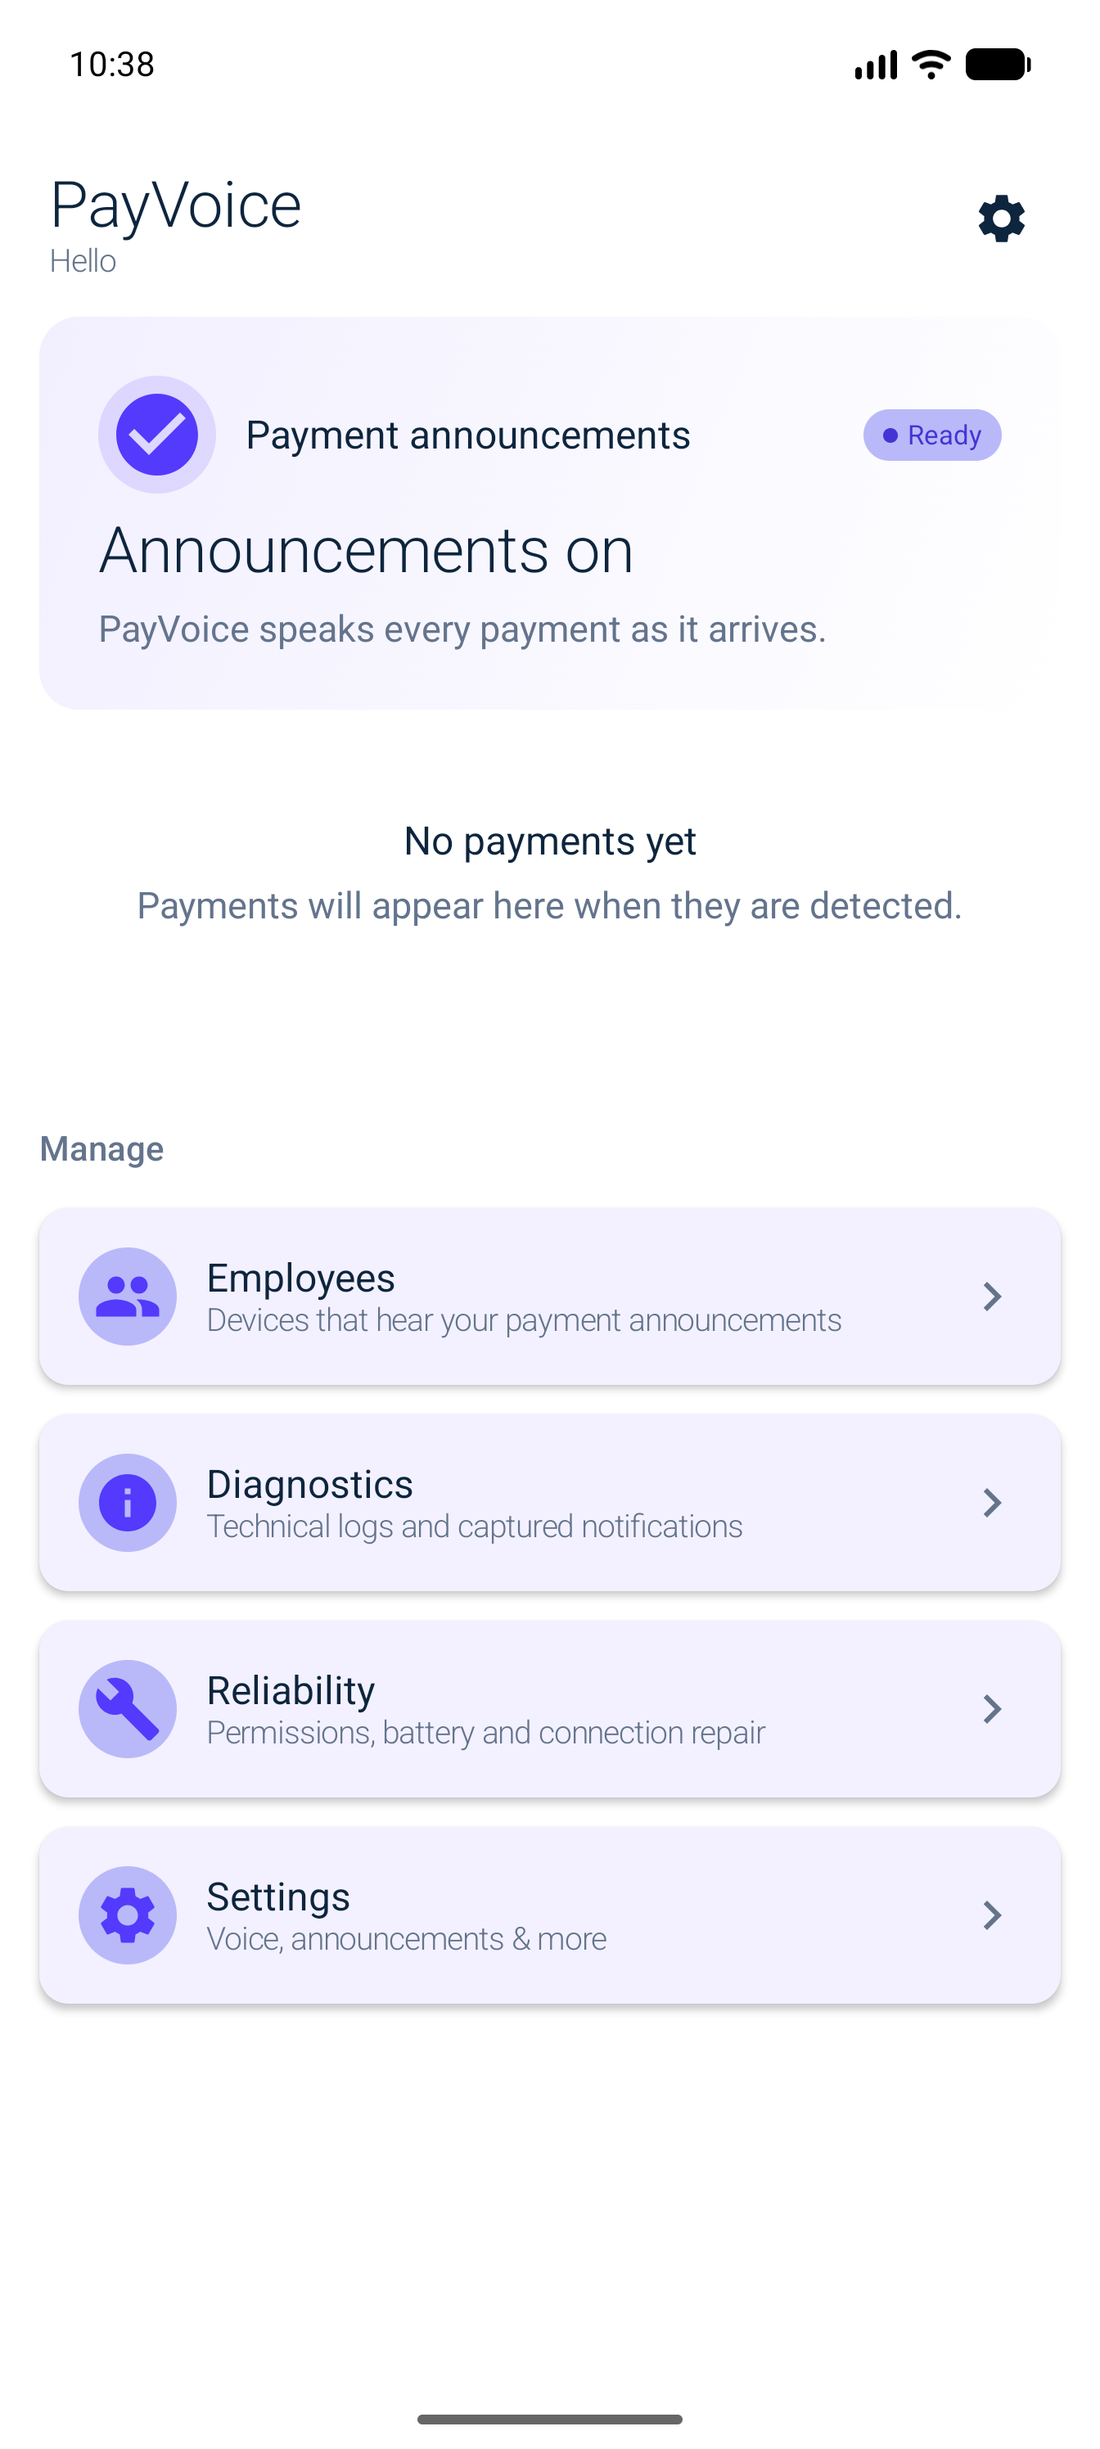
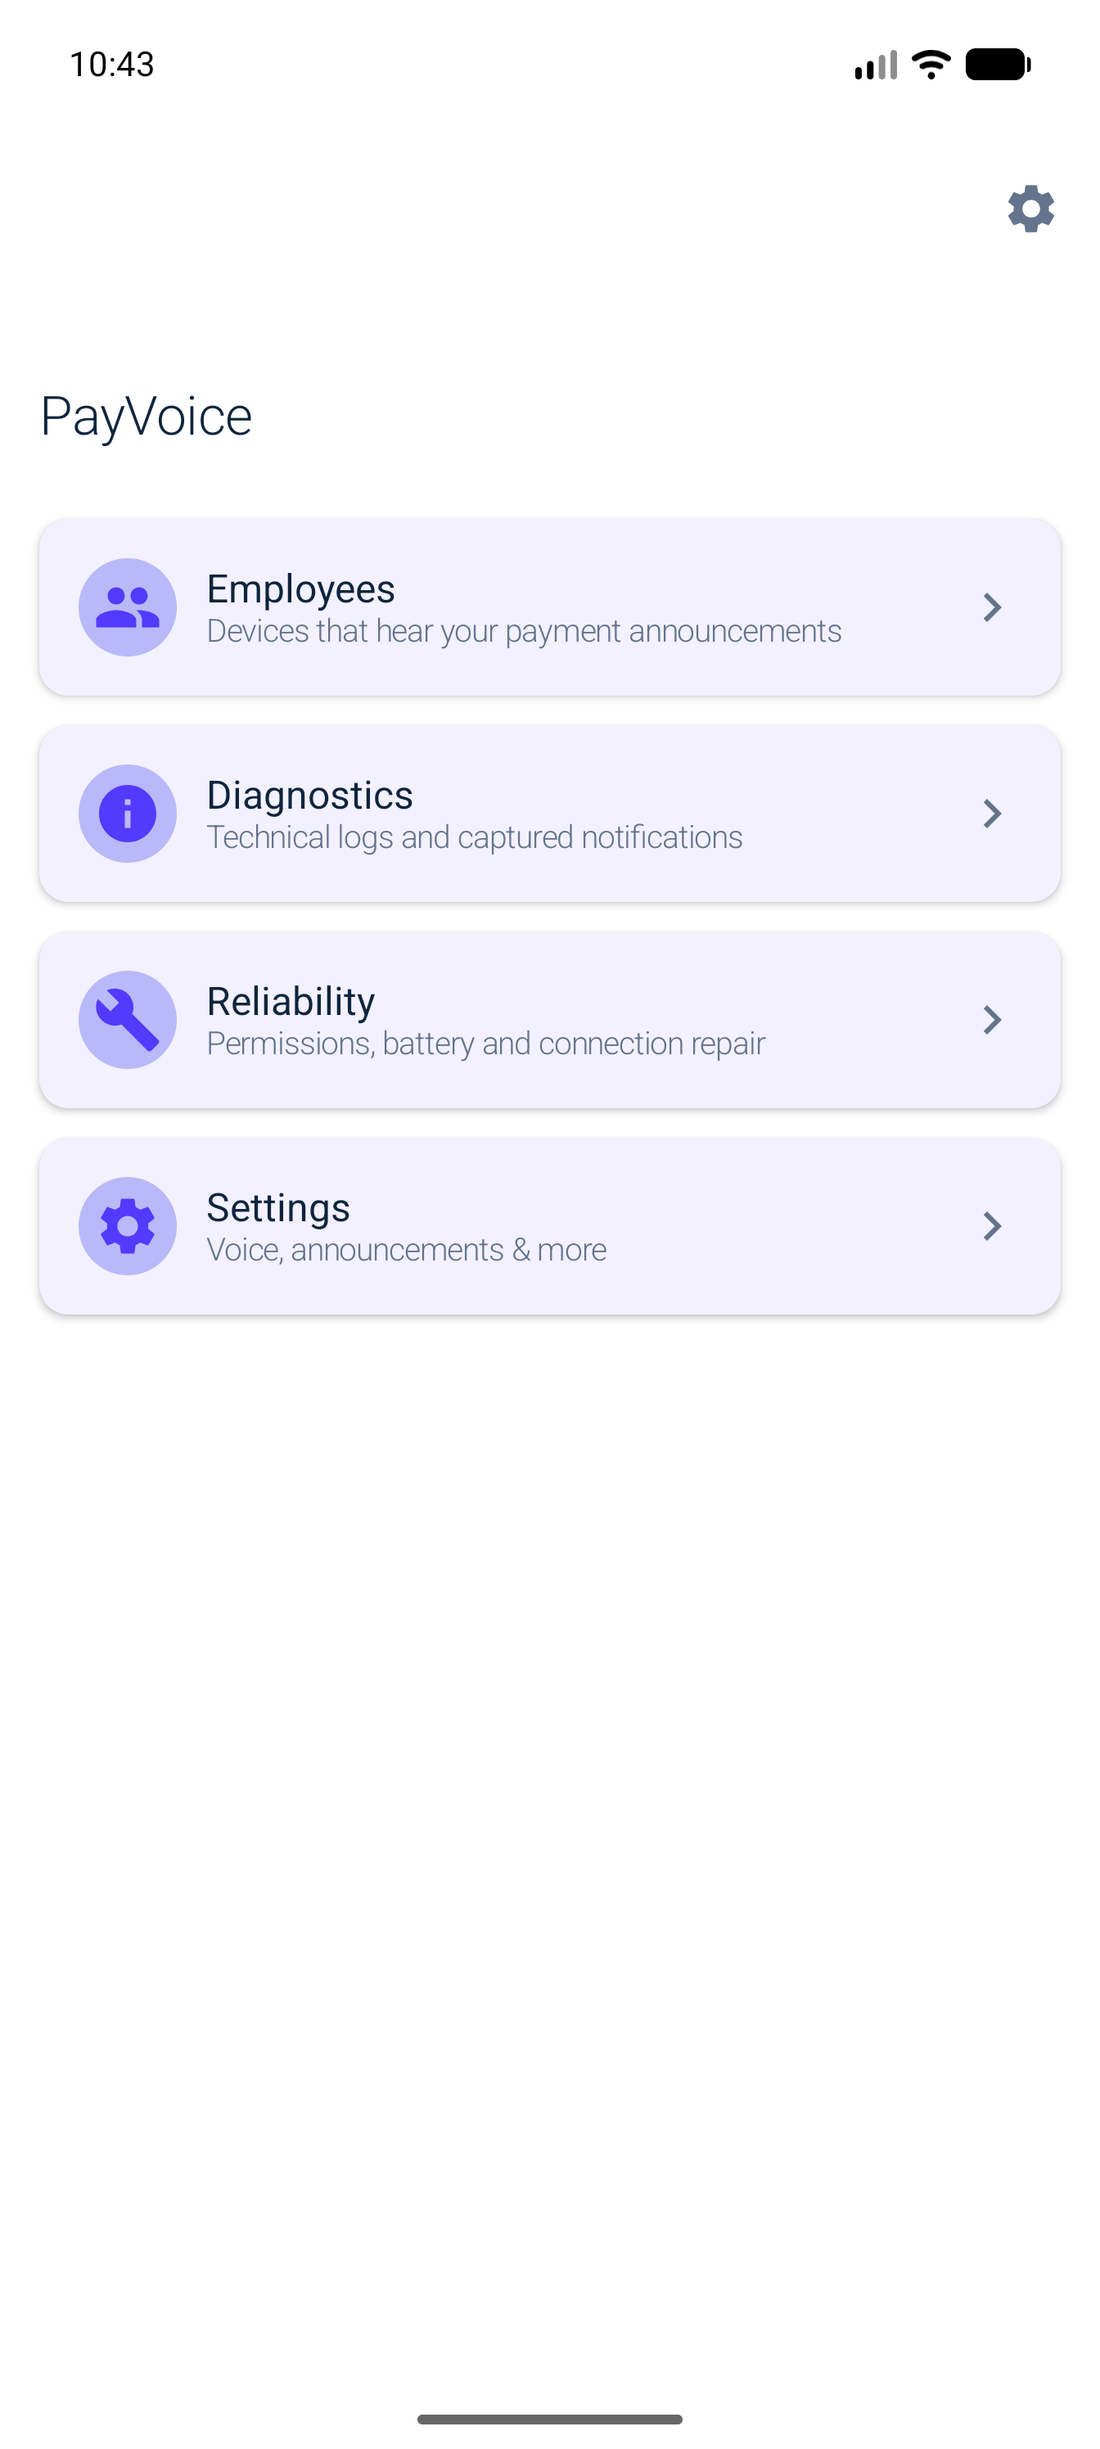
refactor(ui/home): rebuild from DESIGN.md primitives
Phase 3b — Home is a direct translation of the spec:

- LargeTopAppBar "PayVoice" (exit-until-collapsed) in the PvScaffold topBar
  slot; Settings icon action; canvas container.
- HeroCard: rounded.xl surface, role headline (Owner/Employee/Welcome) +
  StatusPill (Ready/Action needed/Waiting/Idle), one human status line
  derived from the existing status flows. No gradient, no ink-on-navy —
  the consumer canvas track.
- Role selector REMOVED from this screen (role is set at onboarding,
  read-only here; the UNSET branch renders no cards).
- Recent payments retained as a product surface: PvPaymentRow + tnum
  MoneyText + PvEmptyHint; Manage section = spec's four PvActionCards
  (role-aware first card).
- Derived helpers (homeTone/homeStatusText) map the existing flows to
  StatusTone/copy — zero ViewModel changes.

Verified on emulator-5554 (owner): hero "Owner / Ready", recent-payments
empty hint, Manage cards all in the uiautomator dump; home-owner.png
re-captured. compileDebugKotlin + assembleDebug green.

diff --git a/app/src/main/java/com/vivekray898/payvoice/ui/parenthome/ParentHomeScreen.kt b/app/src/main/java/com/vivekray898/payvoice/ui/parenthome/ParentHomeScreen.kt
@@ -4,51 +4,55 @@ import android.os.Build
 import androidx.compose.foundation.layout.Arrangement
 import androidx.compose.foundation.layout.Column
 import androidx.compose.foundation.layout.PaddingValues
-import androidx.compose.foundation.layout.Row
+import androidx.compose.foundation.layout.Spacer
 import androidx.compose.foundation.layout.fillMaxSize
+import androidx.compose.foundation.layout.fillMaxWidth
+import androidx.compose.foundation.layout.height
+import androidx.compose.foundation.layout.padding
 import androidx.compose.foundation.lazy.LazyColumn
 import androidx.compose.material.icons.Icons
 import androidx.compose.material.icons.filled.Build
-import androidx.compose.material.icons.filled.CheckCircle
 import androidx.compose.material.icons.filled.Group
 import androidx.compose.material.icons.filled.Info
 import androidx.compose.material.icons.filled.Link
 import androidx.compose.material.icons.filled.Settings
 import androidx.compose.material.icons.filled.Warning
-import androidx.compose.material3.Button
+import androidx.compose.material3.ExperimentalMaterial3Api
 import androidx.compose.material3.Icon
 import androidx.compose.material3.IconButton
+import androidx.compose.material3.LargeTopAppBar
 import androidx.compose.material3.MaterialTheme
-import androidx.compose.material3.OutlinedButton
+import androidx.compose.material3.Surface
 import androidx.compose.material3.Text
+import androidx.compose.material3.TopAppBarDefaults
 import androidx.compose.runtime.Composable
 import androidx.compose.runtime.getValue
+import androidx.compose.ui.Alignment
 import androidx.compose.ui.Modifier
+import androidx.compose.ui.input.nestedscroll.nestedScroll
 import androidx.lifecycle.compose.collectAsStateWithLifecycle
 import com.vivekray898.payvoice.core.parser.AmountExtractor
 import com.vivekray898.payvoice.core.remote.DeviceRole
+import com.vivekray898.payvoice.service.status.DeviceStatusMonitor
 import com.vivekray898.payvoice.ui.MainViewModel
+import com.vivekray898.payvoice.ui.components.MoneyText
 import com.vivekray898.payvoice.ui.components.PvActionCard
 import com.vivekray898.payvoice.ui.components.PvDivider
-import com.vivekray898.payvoice.ui.components.PvEmptyState
+import com.vivekray898.payvoice.ui.components.PvEmptyHint
 import com.vivekray898.payvoice.ui.components.PvPaymentRow
 import com.vivekray898.payvoice.ui.components.PvScaffold
-import com.vivekray898.payvoice.ui.components.PvSection
-import com.vivekray898.payvoice.ui.components.PvStatusHero
-import com.vivekray898.payvoice.ui.components.statusCaution
-import com.vivekray898.payvoice.ui.components.statusNegative
-import com.vivekray898.payvoice.ui.components.statusPositive
+import com.vivekray898.payvoice.ui.components.StatusPill
+import com.vivekray898.payvoice.ui.components.StatusTone
+import com.vivekray898.payvoice.ui.components.SectionHeader
 import com.vivekray898.payvoice.ui.components.timeAgo
 import com.vivekray898.payvoice.ui.theme.Spacing
-import java.util.Calendar
 
 /**
- * Home (premium pass, UI overhaul Phase 3): large title + greeting in the
- * shared [PvScaffold] chrome, gradient status hero with icon circle and
- * status chip, and icon-circle action cards. List is inset by the scaffold
- * (status/nav bars handled centrally); only aesthetic padding here.
- * ViewModel wiring untouched.
+ * Home (DESIGN.md rebuild, Phase 3b): LargeTopAppBar "PayVoice", the hero
+ * card (role + status pill + one human line), then the Manage action cards.
+ * No role selector — role is set during onboarding and read-only here.
  */
+@OptIn(ExperimentalMaterial3Api::class)
 @Composable
 fun ParentHomeScreen(
     viewModel: MainViewModel,
@@ -61,122 +65,82 @@ fun ParentHomeScreen(
     val status by viewModel.status.collectAsStateWithLifecycle()
     val history by viewModel.history.collectAsStateWithLifecycle()
     val settings by viewModel.settings.collectAsStateWithLifecycle()
+    val ownDevice by viewModel.ownDevice.collectAsStateWithLifecycle()
 
-    val listenerOk = status?.listenerEnabled == true
-    val notifOk = status?.notificationsEnabled == true
-    val ready = listenerOk && notifOk
-    val needsAttention = !ready
-    val isEmployee = settings.role == DeviceRole.EMPLOYEE
+    val scrollBehavior = TopAppBarDefaults.exitUntilCollapsedScrollBehavior()
+    val role = settings.role
+    val tone = homeTone(status, role, ownDevice?.isActive == true)
+    val statusText = homeStatusText(role, status, ownDevice?.isActive == true)
 
     PvScaffold(
-        title = "PayVoice",
-        subtitle = greeting(),
-        largeTitle = true,
-        actions = {
-            IconButton(onClick = onOpenSettings) {
-                Icon(Icons.Filled.Settings, contentDescription = "Settings")
-            }
+        topBar = {
+            LargeTopAppBar(
+                title = { Text("PayVoice", style = MaterialTheme.typography.headlineMedium) },
+                actions = {
+                    IconButton(onClick = onOpenSettings) {
+                        Icon(Icons.Filled.Settings, contentDescription = "Settings")
+                    }
+                },
+                colors = TopAppBarDefaults.largeTopAppBarColors(
+                    containerColor = MaterialTheme.colorScheme.background,
+                ),
+                scrollBehavior = scrollBehavior,
+            )
         },
-    ) {
+    ) { inner ->
         LazyColumn(
-            Modifier.fillMaxSize(),
-            contentPadding = PaddingValues(top = Spacing.xs, bottom = Spacing.xxl),
-            verticalArrangement = Arrangement.spacedBy(Spacing.xs),
+            modifier = Modifier
+                .fillMaxSize()
+                .nestedScroll(scrollBehavior.nestedScrollConnection),
+            contentPadding = PaddingValues(bottom = Spacing.xxl + inner.calculateBottomPadding()),
         ) {
             item(key = "hero") {
-                if (isEmployee) {
-                    EmployeeHero(viewModel, onOpen = onOpenEmployeeRemote)
-                } else {
-                    if (ready) {
-                        PvStatusHero(
-                            icon = Icons.Filled.CheckCircle,
-                            tint = statusPositive(),
-                            title = "Payment announcements",
-                            headline = "Announcements on",
-                            body = "PayVoice speaks every payment as it arrives.",
-                            chip = "Ready",
-                            chipOk = true,
+                HeroCard(
+                    modifier = Modifier.padding(horizontal = Spacing.lg),
+                    role = role,
+                    statusText = statusText,
+                    tone = tone,
+                )
+            }
+            item(key = "history") {
+                Column(Modifier.padding(horizontal = Spacing.lg)) {
+                    SectionHeader(text = "Recent payments")
+                    if (history.isEmpty()) {
+                        PvEmptyHint(
+                            text = "Payments will appear here when they are detected.",
                         )
                     } else {
-                        PvStatusHero(
-                            icon = Icons.Filled.Warning,
-                            tint = statusNegative(),
-                            title = "Payment announcements",
-                            headline = "Setup incomplete",
-                            body = "Allow notification access so PayVoice can hear your payments.",
-                            chip = "Action needed",
-                            chipOk = false,
-                            actionLabel = "Fix this",
-                            onAction = onOpenReliability,
-                        )
-                    }
-                }
-            }
-
-            item(key = "payments") {
-                PvSection(title = if (history.isEmpty()) null else "Recent payments") {
-                    when {
-                        history.isEmpty() -> PvEmptyState(
-                            title = "No payments yet",
-                            body = "Payments will appear here when they are detected.",
-                            actionLabel = if (needsAttention) "Check setup" else null,
-                            onAction = if (needsAttention) onOpenReliability else null,
-                        )
-                        else -> {
-                            history.take(6).forEachIndexed { index, entry ->
-                                if (index > 0) PvDivider()
-                                PvPaymentRow(
-                                    amountText = AmountExtractor.formatMinor(
-                                        entry.amountMinor,
-                                        entry.currency,
-                                    ),
-                                    source = entry.sourceName,
-                                    sender = entry.senderName,
-                                    timeText = timeAgo(entry.announcedAtMs),
-                                )
-                            }
+                        history.take(6).forEachIndexed { index, entry ->
+                            if (index > 0) PvDivider()
+                            PvPaymentRow(
+                                amountText = AmountExtractor.formatMinor(
+                                    entry.amountMinor,
+                                    entry.currency,
+                                ),
+                                source = entry.sourceName,
+                                sender = entry.senderName,
+                                timeText = timeAgo(entry.announcedAtMs),
+                            )
                         }
                     }
                 }
             }
-
-            item(key = "role-entry") {
-                when (settings.role) {
-                    DeviceRole.UNSET -> PvSection(title = "Announce on more devices") {
-                        Text(
-                            "Let another phone announce the same payments — for a shop " +
-                                "counter or another staff member.",
-                            style = MaterialTheme.typography.bodyMedium,
-                            color = MaterialTheme.colorScheme.onSurfaceVariant,
-                        )
-                        Row(horizontalArrangement = Arrangement.spacedBy(Spacing.sm)) {
-                            Button(onClick = { viewModel.setRole(DeviceRole.OWNER, Build.MODEL ?: "Owner") }) {
-                                Text("I'm the owner")
-                            }
-                            OutlinedButton(onClick = { viewModel.setRole(DeviceRole.EMPLOYEE, Build.MODEL ?: "Employee") }) {
-                                Text("I'm an employee")
-                            }
-                        }
-                    }
-                    else -> Unit // hero covers the role entry point via the cards below
-                }
-            }
-
-            item(key = "cards") {
-                PvSection(title = "Manage") {
+            item(key = "manage") {
+                Column(Modifier.padding(horizontal = Spacing.lg)) {
+                    SectionHeader(text = if (role == DeviceRole.EMPLOYEE) "This device" else "Manage")
                     Column(verticalArrangement = Arrangement.spacedBy(Spacing.md)) {
-                        when (settings.role) {
+                        when (role) {
+                            DeviceRole.EMPLOYEE -> PvActionCard(
+                                icon = Icons.Filled.Link,
+                                title = "Pair status",
+                                subtitle = statusText,
+                                onClick = onOpenEmployeeRemote,
+                            )
                             DeviceRole.OWNER -> PvActionCard(
                                 icon = Icons.Filled.Group,
                                 title = "Employees",
                                 subtitle = "Devices that hear your payment announcements",
                                 onClick = onOpenOwnerRemote,
-                            )
-                            DeviceRole.EMPLOYEE -> PvActionCard(
-                                icon = Icons.Filled.Link,
-                                title = "Pair this device",
-                                subtitle = "Join a business with a pairing code",
-                                onClick = onOpenEmployeeRemote,
                             )
                             DeviceRole.UNSET -> Unit
                         }
@@ -199,6 +163,7 @@ fun ParentHomeScreen(
                             onClick = onOpenSettings,
                         )
                     }
+                    Spacer(Modifier.height(Spacing.xl))
                 }
             }
         }
@@ -206,42 +171,79 @@ fun ParentHomeScreen(
 }
 
 @Composable
-private fun EmployeeHero(viewModel: MainViewModel, onOpen: () -> Unit) {
-    val own by viewModel.ownDevice.collectAsStateWithLifecycle()
-    val connected = own?.isActive == true
-    if (connected) {
-        PvStatusHero(
-            icon = Icons.Filled.CheckCircle,
-            tint = statusPositive(),
-            title = "Remote announcements",
-            headline = "Connected to your owner",
-            body = "This phone announces your owner's payments.",
-            chip = "Live",
-            chipOk = true,
-            actionLabel = "View connection",
-            onAction = onOpen,
-        )
-    } else {
-        PvStatusHero(
-            icon = Icons.Filled.Link,
-            tint = statusCaution(),
-            title = "Remote announcements",
-            headline = "Waiting for a pairing code",
-            body = "Join with a code from your owner to start announcing.",
-            chip = "Not connected",
-            chipOk = null,
-            actionLabel = "Join",
-            onAction = onOpen,
-        )
+private fun HeroCard(
+    role: DeviceRole,
+    statusText: String,
+    tone: StatusTone,
+    modifier: Modifier = Modifier,
+) {
+    Surface(
+        modifier = modifier.fillMaxWidth(),
+        shape = MaterialTheme.shapes.extraLarge, // rounded.xl
+        color = MaterialTheme.colorScheme.surface,
+        tonalElevation = Spacing.xxs,
+    ) {
+        Column(
+            Modifier
+                .fillMaxWidth()
+                .padding(Spacing.xl),
+        ) {
+            androidx.compose.foundation.layout.Row(verticalAlignment = Alignment.CenterVertically) {
+                Text(
+                    text = when (role) {
+                        DeviceRole.OWNER -> "Owner"
+                        DeviceRole.EMPLOYEE -> "Employee"
+                        DeviceRole.UNSET -> "Welcome"
+                    },
+                    style = MaterialTheme.typography.headlineMedium,
+                    color = MaterialTheme.colorScheme.onSurface,
+                    modifier = Modifier.weight(1f),
+                )
+                StatusPill(
+                    text = when (tone) {
+                        StatusTone.Success -> "Ready"
+                        StatusTone.Error -> "Action needed"
+                        StatusTone.Warning -> "Waiting"
+                        StatusTone.Neutral -> "Idle"
+                    },
+                    tone = tone,
+                )
+            }
+            Spacer(Modifier.height(Spacing.sm))
+            Text(
+                text = statusText,
+                style = MaterialTheme.typography.bodyMedium,
+                color = MaterialTheme.colorScheme.onSurfaceVariant,
+            )
+        }
     }
 }
 
-private fun greeting(): String {
-    val hour = Calendar.getInstance().get(Calendar.HOUR_OF_DAY)
-    return when (hour) {
-        in 5..11 -> "Good morning"
-        in 12..16 -> "Good afternoon"
-        in 17..20 -> "Good evening"
-        else -> "Hello"
+private fun homeTone(
+    status: DeviceStatusMonitor.Snapshot?,
+    role: DeviceRole,
+    paired: Boolean,
+): StatusTone = when (role) {
+    DeviceRole.EMPLOYEE -> if (paired) StatusTone.Success else StatusTone.Warning
+    else -> when {
+        status == null -> StatusTone.Neutral
+        status.listenerEnabled && status.notificationsEnabled -> StatusTone.Success
+        else -> StatusTone.Error
+    }
+}
+
+private fun homeStatusText(
+    role: DeviceRole,
+    status: DeviceStatusMonitor.Snapshot?,
+    paired: Boolean,
+): String = when (role) {
+    DeviceRole.EMPLOYEE ->
+        if (paired) "This phone announces your owner's payments."
+        else "Join with a code from your owner to start announcing."
+    else -> when {
+        status == null -> "Checking this device…"
+        status.listenerEnabled && status.notificationsEnabled ->
+            "PayVoice speaks every payment as it arrives."
+        else -> "Allow notification access so PayVoice can hear your payments."
     }
 }
